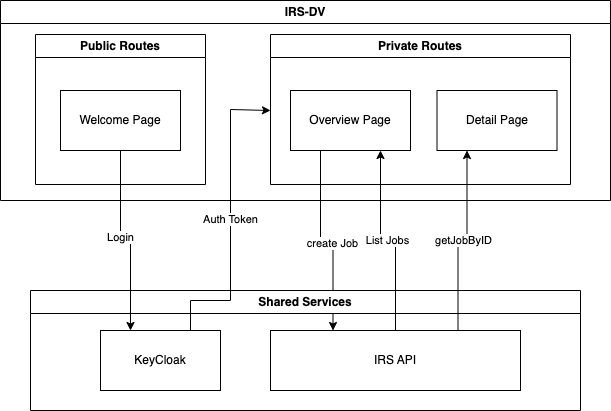
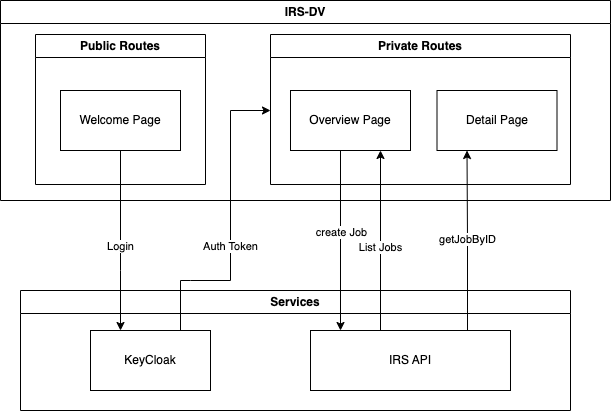
docs: improve arrow positions

diff --git a/docs/architectureDocumentation.md b/docs/architectureDocumentation.md
@@ -18,7 +18,6 @@
 - [System scope and context](#system-scope-and-context)
   - [Business context](#business-context)
     - [End User](#end-user)
-    - [Consumer](#consumer)
     - [IRS Job API](#irs-job-api)
   - [Technical context](#technical-context)
   - [Component overview](#component-overview)
@@ -336,7 +335,6 @@ Full backend services graph you can find at **[IRS team](https://catenax-ng.gith
 
 ![whitebox overview](./images/ComponentOverview.png)
 
-==TODO: Can the arrows be arranged better?==
 
 ### Component description
 
